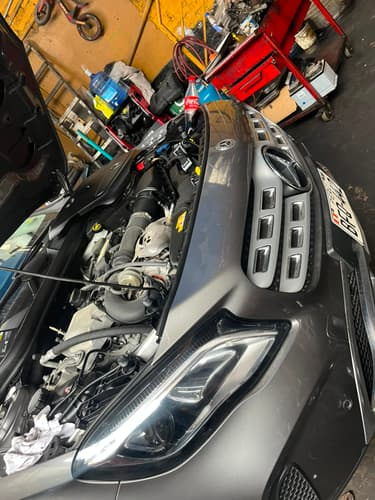
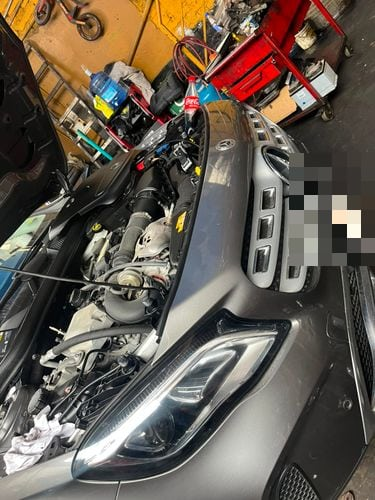
@ ALENMOTORS: datos de la llamada y placa pixelada
PLACA. La foto del Mercedes mostraba la placa legible: es dato del dueno
del carro, no del taller. Queda pixelada en bloques de 6, irreversible, en
las dos resoluciones. Se rehizo desde el original para no encadenar
recompresiones.

Nota tecnica: sharp NO encadena dos resize, el segundo anula al primero,
asi que el pixelado hay que hacerlo en dos instancias separadas. Los tres
intentos anteriores devolvian la region intacta.

DATOS DE LA LLAMADA.
- Horario 10:00 a. m. a 6:00 p. m., todos los dias menos martes. Entra en
  contacto, en el FAQ y en el JSON-LD con el martes excluido. Era el unico
  dato que le faltaba a la pagina.
- Suspension: fuera "espirales", entran palieres y rodamientos
- Afinamiento completo: de S/ 180 a S/ 150

@

diff --git a/alenmotors-red-de-talleres-de-mecanica/index.html b/alenmotors-red-de-talleres-de-mecanica/index.html
@@ -24,7 +24,7 @@
     <link rel="canonical" href="https://by0nder.github.io/demos-restaurantes/alenmotors-red-de-talleres-de-mecanica/"><meta property="og:url" content="https://by0nder.github.io/demos-restaurantes/alenmotors-red-de-talleres-de-mecanica/">
     
     <script type="application/ld+json">
-    {"@context":"https://schema.org","@type":"LocalBusiness","name":"ALENMOTORS","description":"Mantenimiento preventivo y correctivo, afinamiento, frenos, suspensión y diagnóstico por escáner. Jr. Napo 650, Breña, Lima.","image":"https://by0nder.github.io/demos-restaurantes/alenmotors-red-de-talleres-de-mecanica/assets/og.jpg","telephone":"+51 980 875 250","address":{"@type":"PostalAddress","streetAddress":"Jr. Napo 650, Breña, Lima","addressCountry":"PE"},"priceRange":"S/ 40 - S/ 400","url":"https://by0nder.github.io/demos-restaurantes/alenmotors-red-de-talleres-de-mecanica/","sameAs":["https://facebook.com/alenmotors"]}
+    {"@context":"https://schema.org","@type":"LocalBusiness","name":"ALENMOTORS","description":"Mantenimiento preventivo y correctivo, afinamiento, frenos, suspensión y diagnóstico por escáner. Jr. Napo 650, Breña, Lima.","image":"https://by0nder.github.io/demos-restaurantes/alenmotors-red-de-talleres-de-mecanica/assets/og.jpg","telephone":"+51 980 875 250","openingHoursSpecification":{"@type":"OpeningHoursSpecification","dayOfWeek":["Monday","Wednesday","Thursday","Friday","Saturday","Sunday"],"opens":"10:00","closes":"18:00"},"address":{"@type":"PostalAddress","streetAddress":"Jr. Napo 650, Breña, Lima","addressCountry":"PE"},"priceRange":"S/ 40 - S/ 400","url":"https://by0nder.github.io/demos-restaurantes/alenmotors-red-de-talleres-de-mecanica/","sameAs":["https://facebook.com/alenmotors"]}
     </script>
   
   
@@ -423,7 +423,7 @@
               
                 <span class="shrink-0 rounded-full px-3 py-1 text-sm font-bold "
                       style="background: var(--color-suave); color: var(--color-titulo)">
-                  desde S/ 180
+                  desde S/ 150
                 </span>
               
             </div>
@@ -553,7 +553,7 @@
 
             <h3 class="mt-5 text-xl font-bold" style="color: var(--color-titulo)">Suspensión y dirección</h3>
             
-              <p class="mt-2 text-base leading-relaxed opacity-75">Amortiguadores, espirales, rótulas, terminales y bocinas. Si su carro salta, suena en los huecos o jala a un lado, es acá.</p>
+              <p class="mt-2 text-base leading-relaxed opacity-75">Amortiguadores, rótulas, terminales, bocinas, palieres y rodamientos. Si su carro salta, suena en los huecos o jala a un lado, es acá.</p>
             
 
             
@@ -1010,6 +1010,14 @@
       
         <details class="group py-4 reveal">
           <summary class="flex items-center justify-between gap-4 cursor-pointer list-none min-h-[44px] text-lg font-semibold">
+            <span>¿Qué horario tienen?</span>
+            <span class="shrink-0 text-2xl transition group-open:rotate-45" aria-hidden="true">+</span>
+          </summary>
+          <p class="mt-3 text-base leading-relaxed opacity-80">Atendemos de 10:00 a. m. a 6:00 p. m., todos los días menos los martes, que el taller está cerrado.</p>
+        </details>
+      
+        <details class="group py-4 reveal">
+          <summary class="flex items-center justify-between gap-4 cursor-pointer list-none min-h-[44px] text-lg font-semibold">
             <span>¿Dónde están ubicados?</span>
             <span class="shrink-0 transition-transform group-open:rotate-45 text-2xl leading-none" aria-hidden="true">+</span>
           </summary>
@@ -1036,6 +1044,13 @@
     <h2 class="text-3xl md:text-4xl font-bold reveal">Traiga su carro o escríbanos</h2>
 
     <div class="mt-10 grid gap-6 sm:grid-cols-2 lg:grid-cols-3 text-sm">
+      
+        <div class="reveal">
+          <p class="font-semibold uppercase tracking-wide text-sm opacity-75">Horario</p>
+          <p class="mt-1 text-lg font-medium">10:00 a. m. – 6:00 p. m.</p>
+          <p class="text-sm opacity-75">Todos los días, menos los martes</p>
+        </div>
+      
       
         <div class="reveal">
           <p class="font-semibold uppercase tracking-wide text-sm opacity-75">Teléfono</p>
